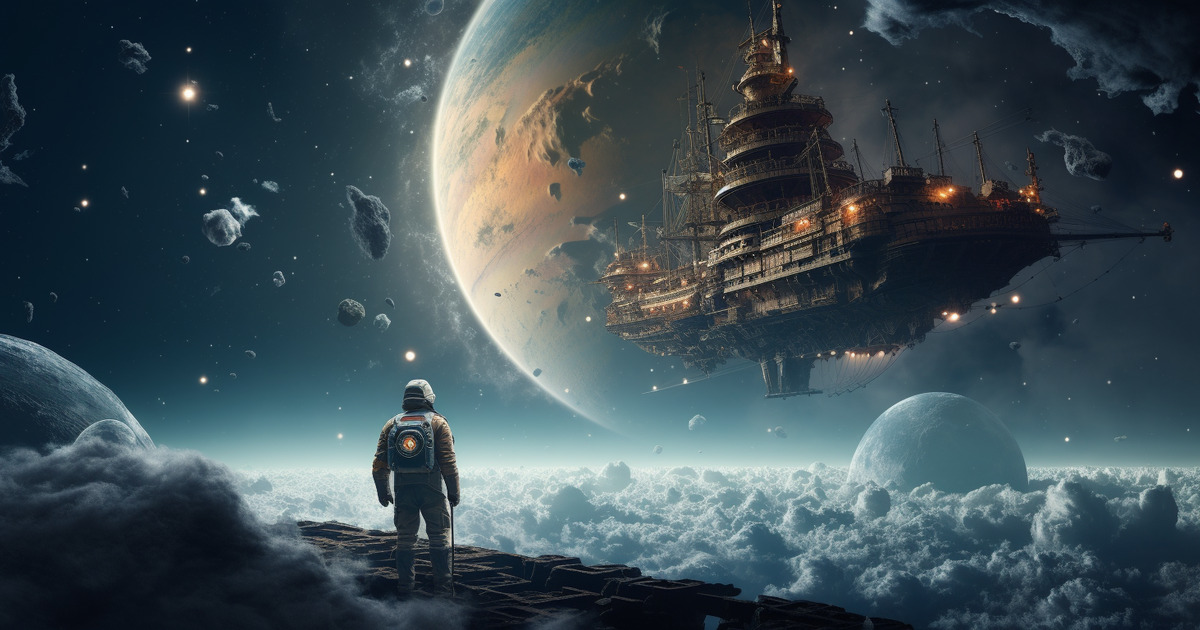
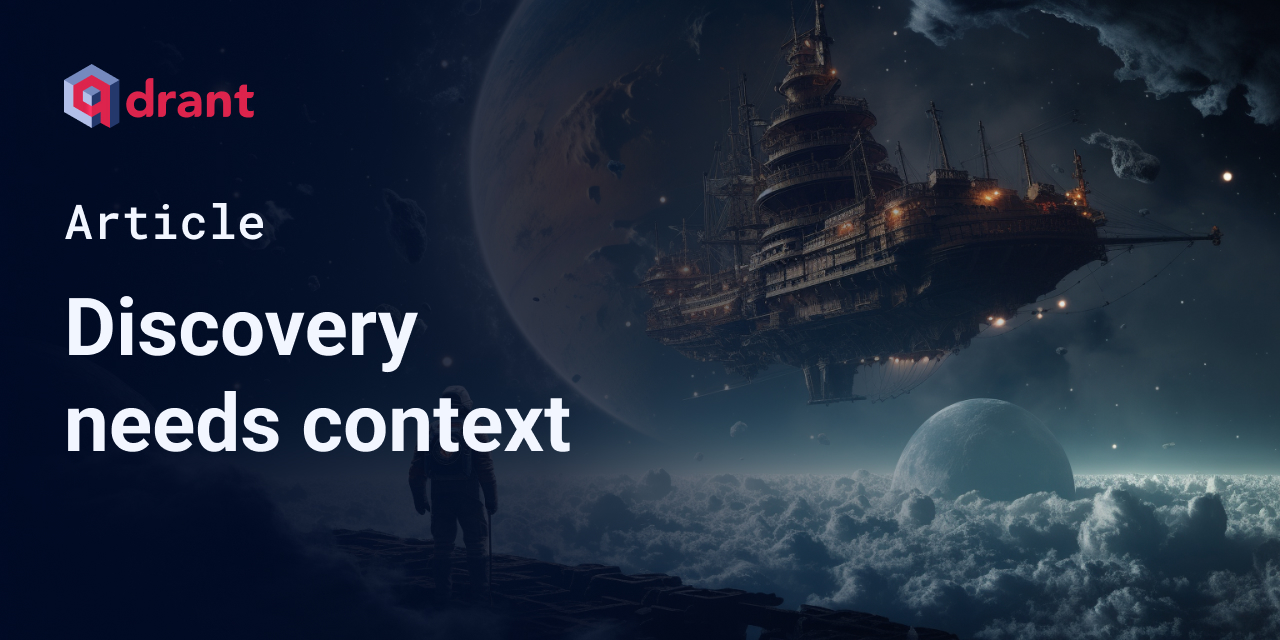
Fix social preview options

diff --git a/qdrant-landing/content/articles/discovery-search.md b/qdrant-landing/content/articles/discovery-search.md
@@ -2,8 +2,8 @@
 title: "Discovery needs context" #required
 short_description: Discover points by constraining the space.
 description: Qdrant released a new functionality that lets you constrain the space in which a search is performed, relying only on vectors. #required
-social_preview_image: /articles_data/discovery-search/social_preview.jpg # This image will be used in social media previews, should be 1200x630px. Required.
-small_preview_image: /articles_data/discovery-search/icon.svg # This image will be used in the list of articles at the footer, should be 40x40px
+social_preview_image: /articles_data/discovery-search/preview/social_preview.jpg # This image will be used in social media previews, should be 1200x630px. Required.
+small_preview_image: /articles_data/discovery-search/preview/icon.svg # This image will be used in the list of articles at the footer, should be 40x40px
 preview_dir: /articles_data/discovery-search/preview # This directory contains images that will be used in the article preview. They can be generated from one image. Read more below. Required.
 weight: -110 # This is the order of the article in the list of articles at the footer. The lower the number, the higher the article will be in the list.
 author: Luis Cossío # Author of the article. Required.
